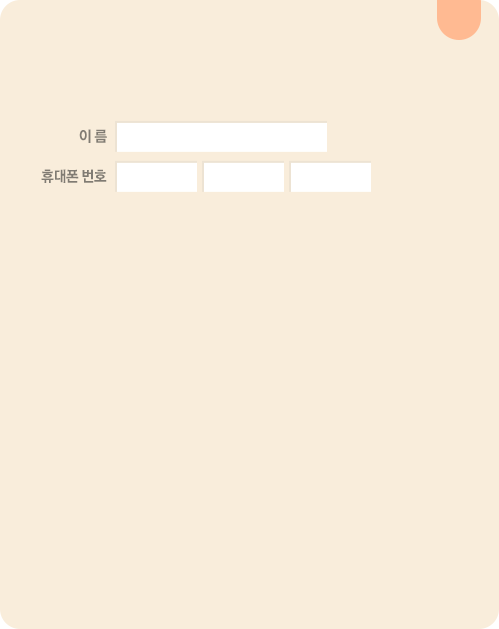
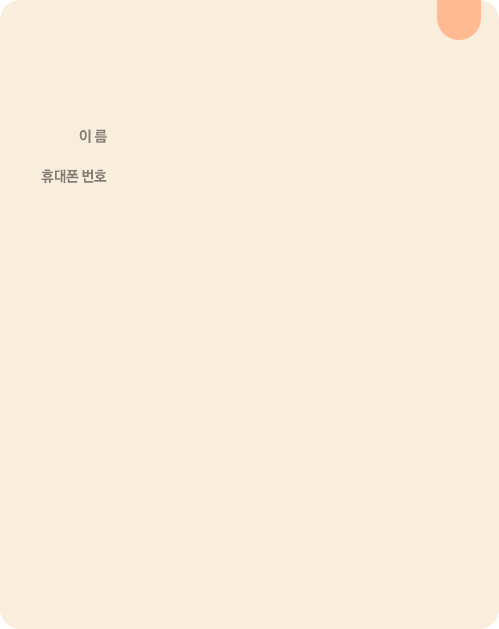
css 수정

Changed region(s): [[0.2104, 0.1812, 0.7515, 0.3323]]

diff --git a/PC/css/style_yang.css b/PC/css/style_yang.css
@@ -769,17 +769,19 @@ body.main{
 .popup_wrap .p_position.p_mid.gift_check .block_content .check_name{
 	padding-left:117px;
 	padding-top:10px;
-	padding-bottom:14px;
+	padding-bottom:13px;
 }
 .popup_wrap .p_position.p_mid.gift_check .block_content .check_name input{
-	width:200px;
+	width:198px;
 	padding:3px;
 	color:#000;
 	font-weight:bold;
 	font-size:14px;
 	line-height:20px;
 	border:none;
-	background:none;
+	background:#fff;
+	border-left:2px solid #ddd;
+	border-top:2px solid #ddd;
 }
 .popup_wrap .p_position.p_mid.gift_check .block_content .check_num{
 	padding-left:117px;
@@ -798,6 +800,9 @@ body.main{
 	line-height:20px;
 	border:none;
 	background:none;
+	background:#fff;
+	border-left:2px solid #ddd;
+	border-top:2px solid #ddd;	
 }
 
 .popup_wrap .p_position.p_mid.gift_check .block_content .check_num div.in select {
